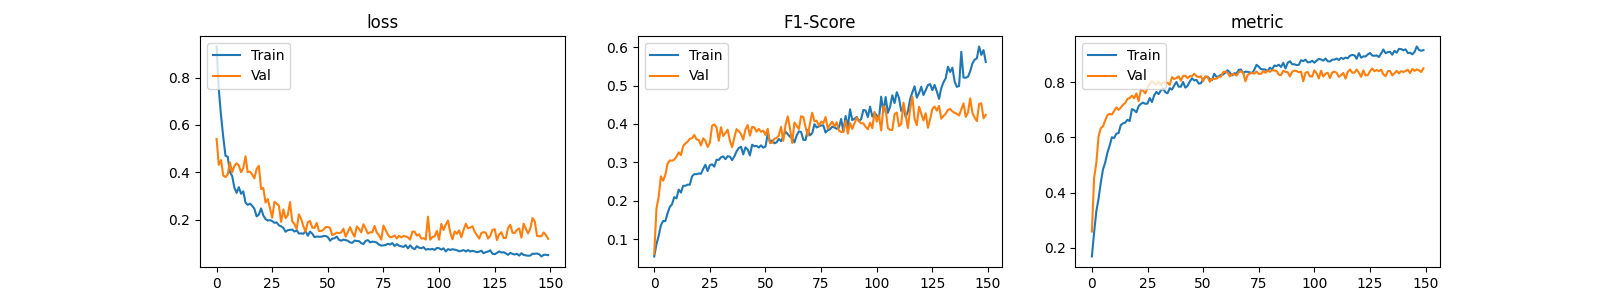
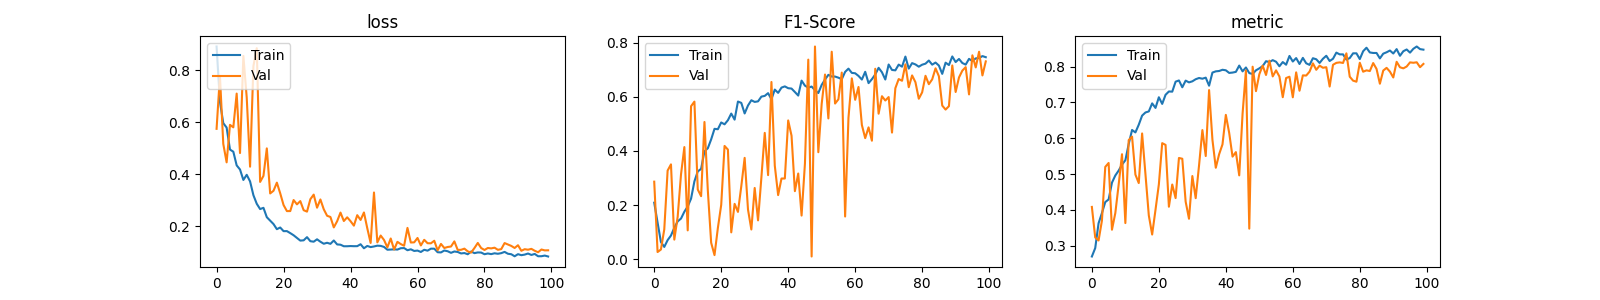
Remove Duplicates

diff --git a/train.py b/train.py
@@ -25,7 +25,7 @@ for gpu in gpus:
 mean = [124.23002308, 159.76066492, 104.05509866]
 std = [47.84116963, 41.94039282, 49.85093766]
 
-CLASS_N = 12
+CLASS_N = 6
 
 cfg = {
     'data_params': {
@@ -34,7 +34,7 @@ cfg = {
     'model_params': {
         'batchsize_per_gpu': 16,
         'iteration_per_epoch': 128,
-        'epoch': 150
+        'epoch': 100
     }
 }
 
@@ -154,7 +154,9 @@ raw_image_dataset = tf.data.TFRecordDataset(tfrecs, num_parallel_reads=AUTOTUNE)
 image_feature_description = {
     'name': tf.io.FixedLenFeature([], tf.string),
     'data': tf.io.FixedLenFeature([], tf.string),
-    'label': tf.io.FixedLenFeature([], tf.int64)
+    'labels': tf.io.FixedLenFeature([], tf.string),
+    'label': tf.io.FixedLenFeature([], tf.int64),
+    'label_name':tf.io.FixedLenFeature([], tf.string)
 }
 
 
@@ -203,7 +205,7 @@ def _preprocess_image_function(single_photo):
     image = tf.image.random_flip_left_right(image)
     # random up down flip
     image = tf.image.random_flip_up_down(image)
-    rand_k = tf.random.uniform([], minval=0, maxval=4, dtype=tf.int64, seed=SEED)
+    rand_k = tf.random.uniform([], minval=0, maxval=4, dtype=tf.int32, seed=SEED)
     # 以50％的概率随机翻转图像
     image = tf.cond(tf.random.uniform([]) < 0.5, lambda: tf.image.rot90(image, k=rand_k), lambda: image)
     single_photo['data'] = image
@@ -236,8 +238,9 @@ def _remove_idx(i, single_photo):
 
 
 def _create_annot(single_photo):
-    targ = tf.one_hot(single_photo["label"], CLASS_N, off_value=0)
-    targ = tf.cast(targ, tf.float32)
+    # targ = tf.one_hot(single_photo["label"], CLASS_N, off_value=0)
+    # targ = tf.cast(targ, tf.float32)
+    targ = tf.io.decode_raw(single_photo['labels'], tf.float32)
     return single_photo['data'], targ
 
 
@@ -446,7 +449,7 @@ def train(splits, split_id):
     #         return tf.reduce_all(tf.equal(targ, tf.cast(tf.one_hot(i, CLASS_N, off_value=0), dtype=tf.float32)))
     #
     #     dataset_filtered.append(dataset.filter(dataset_fn))
-    history = model.fit(dataset if upsample else over_dataset,
+    history = model.fit(over_dataset if upsample else dataset,
                         batch_size=cfg['model_params']['batchsize_per_gpu'],
                         steps_per_epoch=cfg['model_params']['iteration_per_epoch'],
                         epochs=cfg['model_params']['epoch'],
@@ -458,6 +461,11 @@ def train(splits, split_id):
                                 monitor='val_f1_score',
                                 mode='max',
                                 save_best_only=True),
+                            tf.keras.callbacks.ReduceLROnPlateau(monitor='val_f1_score',
+                                                                 mode='max',
+                                                                 patience=5,
+                                                                 factor=0.2,
+                                                                 min_lr=1e-6)
                         ])
     plot_history(history, 'history_%d.png' % split_id)
 

diff --git a/Preprocess.py b/Preprocess.py
@@ -14,7 +14,7 @@ Visualization = False
 NUMBER_IN_TFRECORD = 128
 TRAIN_DATA_ROOT = "./train_images"
 TEST_DATA_ROOT = "./test_images"
-train_data = pd.read_csv("./train.csv", encoding='utf-8')
+train_data = pd.read_csv("./train_without_rep.csv", encoding='utf-8')
 test_data = os.listdir(TEST_DATA_ROOT)
 print("label type:", len(set(train_data["labels"])))
 
@@ -31,6 +31,21 @@ label2id = {
     'rust frog_eye_leaf_spot': 9,
     'rust complex': 10,
     'powdery_mildew complex': 11
+}
+
+label2array = {
+    0: np.array([1, 0, 0, 0, 0, 0], dtype=np.float32),
+    1: np.array([0, 1, 0, 0, 0, 0], dtype=np.float32),
+    2: np.array([0, 0, 1, 0, 0, 0], dtype=np.float32),
+    3: np.array([0, 0, 0, 1, 0, 0], dtype=np.float32),
+    4: np.array([0, 0, 0, 0, 1, 0], dtype=np.float32),
+    5: np.array([0, 0, 0, 0, 0, 1], dtype=np.float32),
+    6: np.array([1, 0, 1, 0, 0, 0], dtype=np.float32),
+    7: np.array([1, 0, 1, 0, 1, 0], dtype=np.float32),
+    8: np.array([0, 0, 1, 0, 1, 0], dtype=np.float32),
+    9: np.array([0, 0, 1, 1, 0, 0], dtype=np.float32),
+    10: np.array([0, 0, 0, 1, 1, 0], dtype=np.float32),
+    11: np.array([0, 0, 0, 0, 1, 1], dtype=np.float32)
 }
 
 # id2label用于输入0-11, 查找label原始名称
@@ -59,19 +74,21 @@ def pares_image(pic_name):
     # img = img.convert('RGB')
     # img = img.resize((512, 512), Image.ANTIALIAS)
     # img_raw = img.tobytes()
-    return img_raw, label, img_shape
+    return img_raw, label2array[int(label)].tobytes(), label, id2label[int(label)]
 
 
 def create_dataset(train_data, i):
     with tf.io.TFRecordWriter(r'./train_tfrecords/train' + '_' + str(int(i)) + '.tfrecords') as writer:
         for data in tqdm(train_data["image"]):
-            raw, label, shape = pares_image(data)
+            raw, labels, label, label_name = pares_image(data)
             exam = tf.train.Example(
                 features=tf.train.Features(
                     feature={
                         'name': tf.train.Feature(bytes_list=tf.train.BytesList(value=[data.encode('utf-8')])),
                         'data': tf.train.Feature(bytes_list=tf.train.BytesList(value=[raw])),
-                        'label': tf.train.Feature(int64_list=tf.train.Int64List(value=[int(label)]))
+                        'labels': tf.train.Feature(bytes_list=tf.train.BytesList(value=[labels])),
+                        'label': tf.train.Feature(int64_list=tf.train.Int64List(value=[int(label)])),
+                        'label_name':tf.train.Feature(bytes_list=tf.train.BytesList(value=[label_name.encode('utf-8')]))
                     }
                 )
             )

diff --git a/README.md b/README.md
@@ -46,7 +46,8 @@
 * 训练集上增加 随机遮挡 数据增强<br/>
 * 训练集上使用 MixUp 数据增强<br/>
 * 训练集上使用 labelsmooth<br/>
-* ~~TTA（测试时增强）~~<br/>
-* 清洗训练集中的标签错误标签数据（imagehash）<br/>
+* TTA（测试时增强）<br/>
+* ~~清洗训练集中的标签错误标签数据（imagehash）~~<br/>
+* 生成tfrecords的时候移除duplicates_compare_result中的
 * 不平衡数据处理 过采样/欠采样<br/>
 * 试 ResNet 系列<br/>
